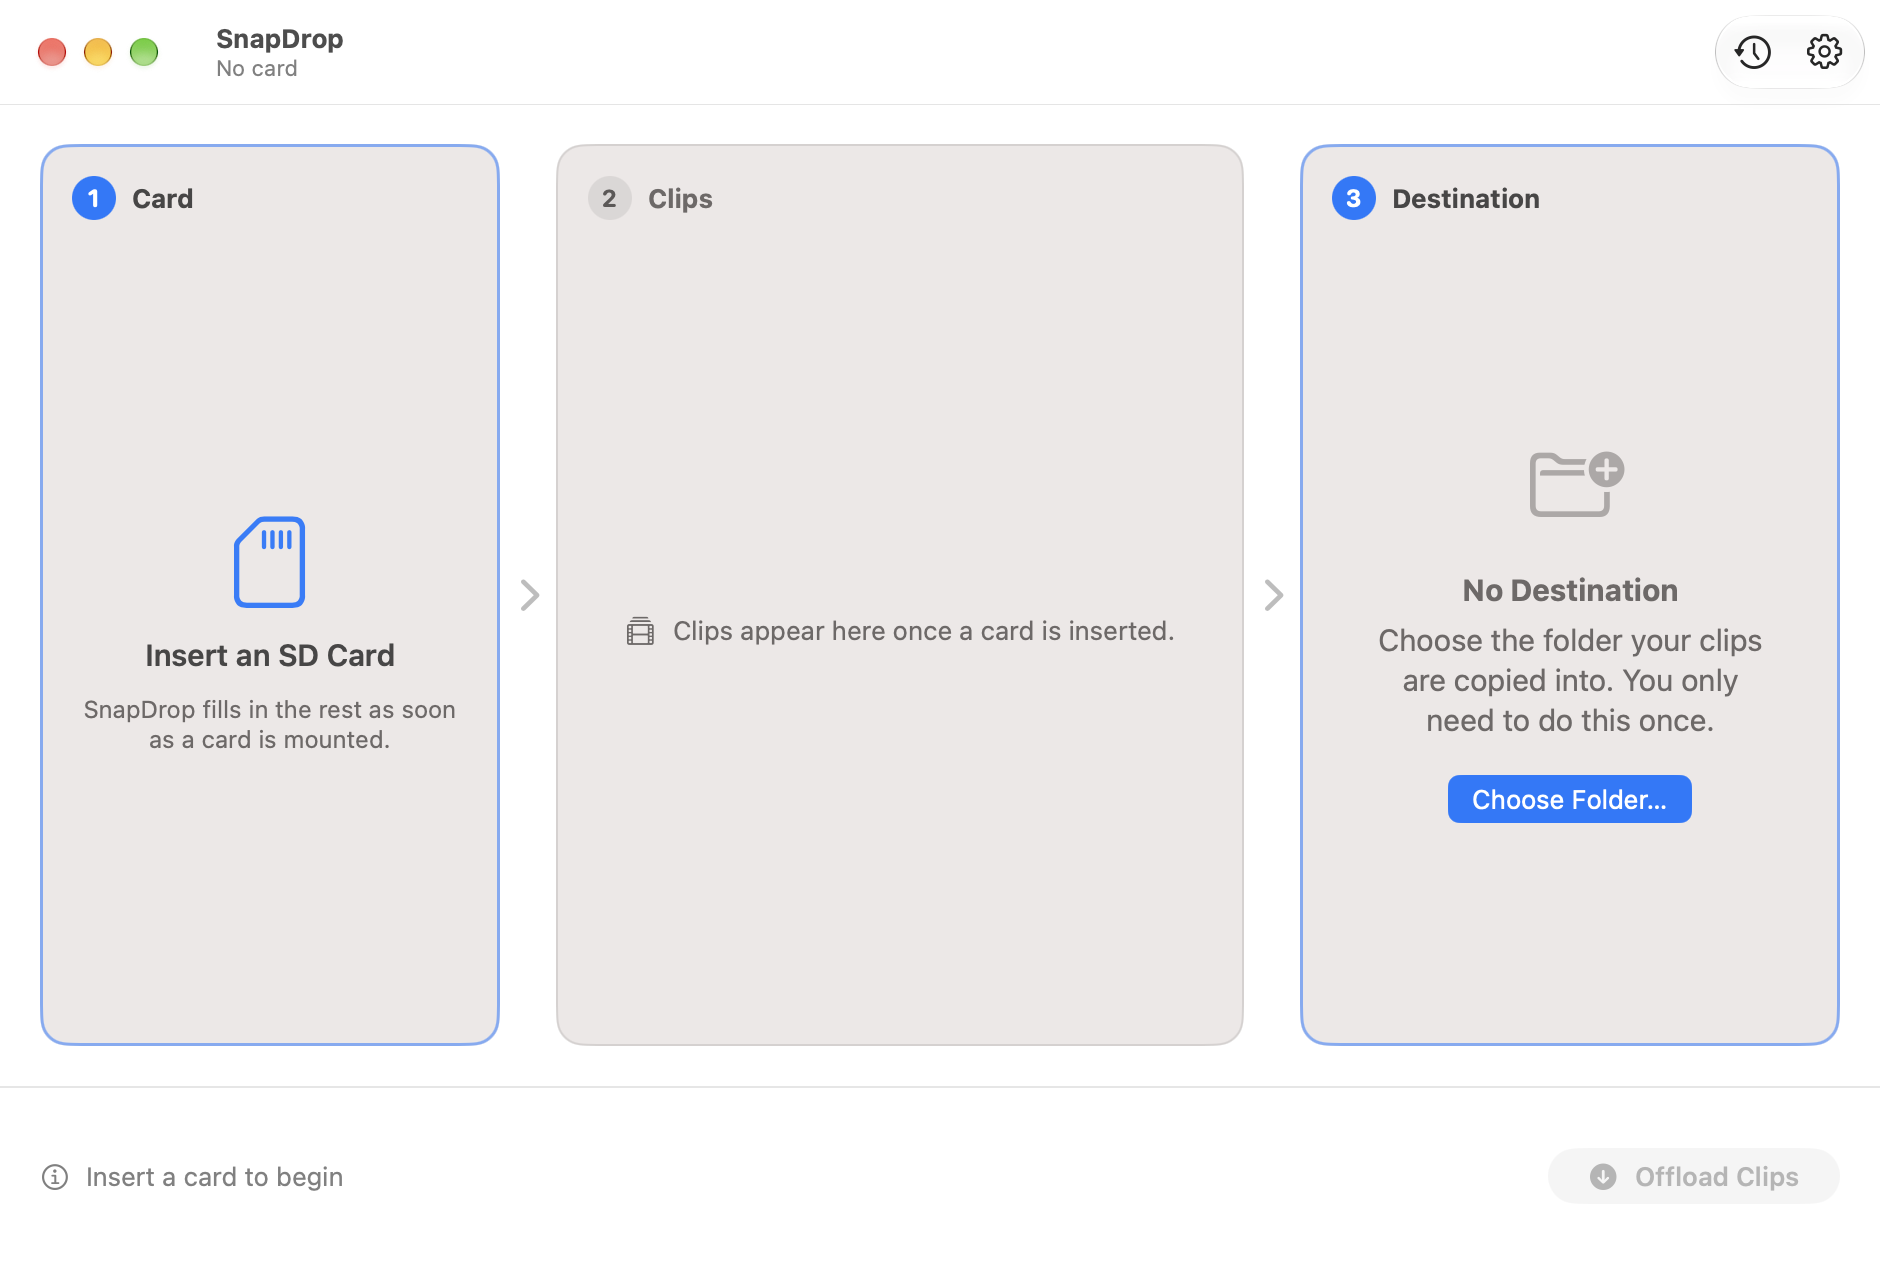
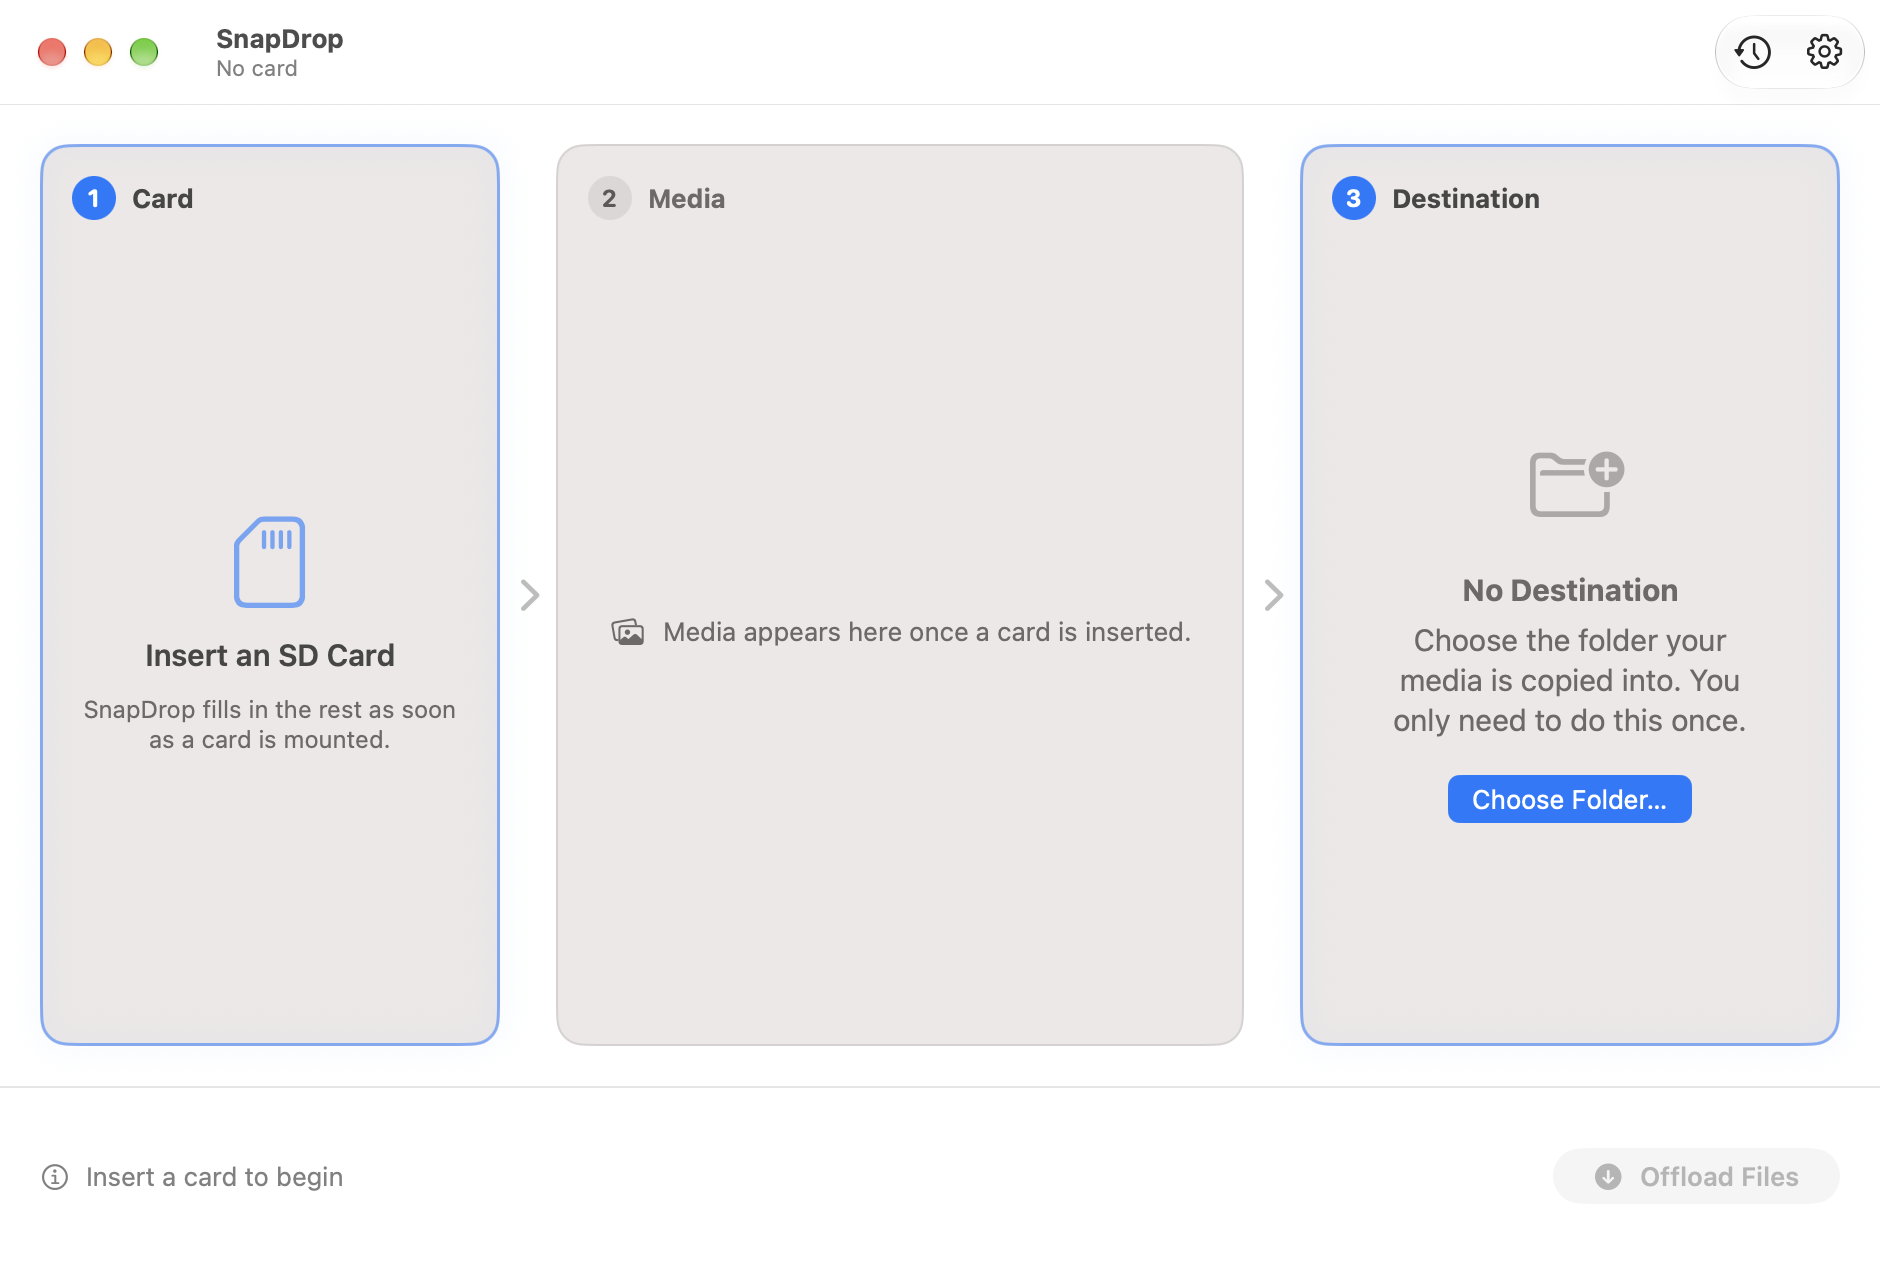
Update README and screenshots

diff --git a/README.md b/README.md
@@ -1,41 +1,43 @@
 # SnapDrop
 
-A small native macOS app (SwiftUI) that offloads video clips from camera SD cards —
-safely, verified, and neatly named.
+A small native macOS app (SwiftUI) that offloads camera SD cards — video, photos, audio
+and sidecar files — safely, verified, and named the way you want.
 
 ![SnapDrop ready to offload a card](Design/screenshots/ready-light.png)
 
 ## What it does
 
 1. **Notices when you insert a card.** Any removable drive mounted under `/Volumes`
-   that has video clips on it (cards already inserted at launch count too).
-2. **Finds your clips** in the usual camera folders — `DCIM` (all cameras),
-   `PRIVATE/M4ROOT/CLIP` (Sony), `CONTENTS/CLIPS` (Panasonic) — and searches the whole
-   card if none of those exist. File types: `.mp4`, `.mov`, `.mxf`, `.braw`.
-   Hidden files and macOS `._` junk files are ignored.
-3. **Asks for a shoot name.** "Beach Shoot" becomes `BeachShoot`. A live preview shows
-   exactly what every clip will be called before anything is copied.
-4. **Copies only new clips** into dated subfolders of your destination:
+   that has media on it (cards already inserted at launch count too).
+2. **Finds everything worth keeping** anywhere on the card: video, photos, audio and
+   other files such as Sony's `C0001M01.XML` metadata (see [File types](#file-types)).
+   System junk is never copied.
+3. **Names files from a template** you set in Settings → Naming, e.g.
+   `{project}/{date}/{camera}` + `{date}_{project}_{camera}_{seq}`. You fill in the
+   project, shoot and camera in the main window; a live preview shows exactly what every
+   file will be called before anything is copied, and the copy uses exactly those names.
+4. **Copies only new files**, with the default layout:
 
    ```
    Destination/
      2026-10-25/
        BeachShoot/
          2026-10-25_BeachShoot_0001.mp4
-         2026-10-25_BeachShoot_0002.mov
+         2026-10-25_BeachShoot_0001M01.xml    ← sidecar keeps its clip's name
+         2026-10-25_BeachShoot_0002.arw
    ```
 
-   - The date is the clip's creation date (or modification date if there's none).
+   - The date is the file's creation date (or modification date if there's none).
    - Numbers continue after the highest one already in that folder, so a second card
-     from the same shoot picks up at `_0003`. Nothing is ever overwritten.
+     from the same shoot picks up where the first left off. Nothing is ever overwritten.
    - Extensions are lowercased.
-5. **Verifies every copy** with SHA-256. Each clip is first copied to
+5. **Verifies every copy** with SHA-256. Each file is first copied to
    `<name>.snapdrop-partial`, the copy is re-read from disk and hashed, and only when it
    matches the source is it renamed to its final name. A mismatch deletes the partial
    file and is reported as a failure.
 6. **Remembers what it copied** in a ledger at
    `~/Library/Application Support/SnapDrop/ledger.json`, so inserting the same card
-   again only copies clips that are new. A clip is identified by the card's volume UUID
+   again only copies files that are new. A file is identified by the card's volume UUID
    (or name) + its path on the card + size + modification time.
 
 SnapDrop **never changes or deletes anything on the card.**
@@ -44,29 +46,87 @@ SnapDrop **never changes or deletes anything on the card.**
 
 The main window reads left to right, like a funnel:
 
-**① Card → ② Clips → ③ Destination**, with the offload bar along the bottom.
+**① Card → ② Media → ③ Destination**, with the offload bar along the bottom.
 
 - **Card** — the inserted cards. Pick one if more than one is mounted.
-- **Clips** — how many clips are new vs. already offloaded, the shoot name field, and a
-  live name preview (`C0007.MP4` → `2026-10-25_BeachShoot_0001.mp4`).
-- **Destination** — the folder, its free space, and the folder layout clips will land in.
-- **Offload bar** — the big **Offload N Clips** button. When it's disabled it tells you why
-  ("Enter a shoot name", "Not enough space…"). While copying it shows the current file,
-  *X of N*, bytes copied, time left and a *Verifying* state, plus **Cancel**. When it's
-  done: **Show in Finder**, **Eject Card** and **Done**.
+- **Media** — chips like *18 video · 9 photo · 3 audio · 19 other* and how many files
+  were already offloaded; the **Project**, **Shoot** and **Camera** fields (only the ones
+  your template uses are required); and the live name preview, with an
+  *All / Video / Photo / Audio / Other* filter. Sidecars are shown indented under their clip.
+- **Destination** — the folder, its free space, and the folder layout files will land in.
+- **Offload bar** — the big **Offload N Files** button. When it's disabled it tells you
+  why ("Enter a project name", "Choose a camera", "Not enough space…"). While copying it
+  shows the current file, *X of N*, bytes copied, time left and a *Verifying* state, plus
+  **Cancel**; the preview highlights the file being copied and ticks off each verified
+  one. When it's done: **Show in Finder**, **Eject Card** and **Done**, and a "Glass"
+  sound plays if everything copied and verified.
 
 When you insert a card SnapDrop fills in the funnel and brings its window to the front —
 no pop-up sheet. The clock button in the toolbar shows **Recent Offloads**.
-
-### Settings (⌘,)
-
-- **Destination folder**
-- **Eject card after offload** (off by default) — only ejects when every clip copied and
-  verified with no failures.
+Animations follow System Settings → Accessibility → Display → **Reduce motion**.
 
 | Ready | Copying | Finished (Dark Mode) |
 | --- | --- | --- |
 | ![](Design/screenshots/ready-light.png) | ![](Design/screenshots/running-light.png) | ![](Design/screenshots/finished-dark.png) |
+
+## Settings (⌘,)
+
+**General** — destination folder; which [file types](#file-types) to offload (all on by
+default); *Eject card after offload* (off by default, and only when every file copied and
+verified); *Play a sound when an offload finishes* (on by default).
+
+**Naming** — a folder template and a file template, presets, and a live example.
+Click a token chip to insert it where you were typing. Mistakes (an unclosed `{`, an
+unknown token, `{seq}` twice, a name starting with `.`) are explained right under the field
+and the Offload button stays off until they're fixed. **Reset to Default** brings back
+`{date}/{shoot}` + `{date}_{shoot}_{seq}`.
+
+| Token | Becomes |
+| --- | --- |
+| `{project}` | Project name from the main window (recent projects are one click away) |
+| `{shoot}` | Shoot name ("Beach Shoot" → `BeachShoot`) |
+| `{camera}` | The chosen camera's short code, or its name if it has no code |
+| `{date}` | Capture date, `2026-10-25` |
+| `{year}` `{month}` `{day}` | `2026`, `10`, `25` |
+| `{time}` | Capture time, `143005` |
+| `{type}` | `Video`, `Photo`, `Audio` or `Other` |
+| `{card}` | The card's volume name |
+| `{original}` | The original file name without extension, `C0001` |
+| `{seq}` | Sequence number, `0001`; `{seq:3}` gives `001` |
+| `{ext}` | File extension, `mp4` (the real extension is always added at the end) |
+
+Use `/` in the folder template for subfolders. Presets: *Date / Shoot* (default),
+*Project / Date / Camera*, *Project / Type / Date*, *Year / Month / Day*,
+*Date / Shoot, Original Names*, and *Flat*. Without `{seq}` or `{original}`, files that
+would end up with the same name get `_2`, `_3`… instead of overwriting.
+
+**Cameras** — your list of cameras, each with a name ("Sony FX3") and an optional short
+code ("A") used by `{camera}`. Add, rename, reorder (drag) and delete. In the main window
+pick one from the **Camera** menu; SnapDrop remembers which camera you used with each card
+and picks it again next time. *Edit Cameras…* in that menu jumps straight here.
+
+| Naming | Cameras |
+| --- | --- |
+| ![](Design/screenshots/settings-naming.png) | ![](Design/screenshots/settings-cameras.png) |
+
+## File types
+
+The type comes from the file extension (upper or lower case).
+
+| Type | Extensions |
+| --- | --- |
+| Video | `mp4 mov mxf braw r3d crm mts m2ts avi mkv insv lrv 360` |
+| Photo | `jpg jpeg heic heif png tif tiff dng arw cr2 cr3 nef raf orf rw2 srw pef gpr insp` |
+| Audio | `wav mp3 aac m4a bwf` |
+| Other | everything else (`xml`, `lrf`, `thm`, …) |
+
+- **Sidecars** keep their clip's new name: an audio or other file next to a video or photo
+  with the same name (`GX010001.WAV` → `…_0001.wav`), or Sony's `C0001M01.XML` style
+  (`…_0001M01.xml`). They don't use up a sequence number.
+- **Never copied:** anything starting with `.` (`.DS_Store`, `._C0001.MP4`,
+  `.Spotlight-V100`, `.fseventsd`, `.Trashes`, `.TemporaryItems`…), `System Volume
+  Information`, `$RECYCLE.BIN`, `Thumbs.db`, `desktop.ini`. Empty (zero-byte) files that
+  aren't hidden are copied.
 
 ## Run it
 
@@ -74,7 +134,8 @@ no pop-up sheet. The clock button in the toolbar shows **Recent Offloads**.
 2. Press **⌘R**.
 3. First run: click **Choose Folder…** in the *Destination* panel (or in Settings, ⌘,) and
    pick the folder for your footage. It's remembered from then on.
-4. Insert a card, type a shoot name, and click **Offload N Clips**.
+4. Insert a card, fill in the shoot name (and project/camera if your template uses them),
+   and click **Offload N Files**.
 
 The project builds without an Apple developer account ("Sign to Run Locally" /
 ad-hoc signing). The app is not sandboxed so it can read `/Volumes` and write to any
@@ -114,6 +175,8 @@ open -n build/DerivedData/Build/Products/Debug/SnapDrop.app --args \
 ```
 
 States: `empty`, `ready`, `running`, `finished`. Appearance: `light` or `dark`.
+Add `-SnapDropDemoSettingsTab general|naming|cameras` to open Settings on that tab.
+The sample card has clips with Sony XML sidecars, RAW photos, WAVs and a few cameras.
 Every view also has `#Preview`s you can open in Xcode's canvas.
 
 ## Code tour
@@ -121,30 +184,37 @@ Every view also has `#Preview`s you can open in Xcode's canvas.
 | File | What's in it |
 | --- | --- |
 | `SnapDropApp.swift` | App entry point: main window and Settings scene |
-| `AppModel.swift` | Ties settings, card watcher, ledger and the current offload together; eject |
-| `ContentView.swift` | Main window: the Card → Clips → Destination funnel and toolbar |
+| `AppModel.swift` | Ties settings, cameras, card watcher, ledger and the current offload together; eject, sound |
+| `ContentView.swift` | Main window: the Card → Media → Destination funnel and toolbar |
 | `FunnelComponents.swift` | Shared pieces: stage panel, step badge, arrows, count pills |
+| `Motion.swift` | Animated pieces: arrow stream, shimmering progress bar, completion burst, row reveal |
 | `CardStageView.swift` | ① Card panel |
-| `ClipsStageView.swift` | ② Clips panel: counts, shoot name, live name preview |
+| `ClipsStageView.swift` | ② Media panel: counts, project/shoot/camera, filterable name preview |
 | `DestinationStageView.swift` | ③ Destination panel: folder, free space, layout |
 | `OffloadBar.swift` | Bottom bar: Offload button, progress/ETA/Cancel, completion actions |
 | `RecentOffloadsView.swift` | Recent Offloads popover |
-| `SettingsView.swift` | Settings window (⌘,) |
-| `FlowLogic.swift` | Pure logic for the UI: name preview, "why is Offload disabled", ETA and byte text |
+| `SettingsView.swift` | Settings window (⌘,): tabs and the General tab |
+| `NamingSettingsView.swift` | Naming tab: template editors, presets, token chips, example |
+| `CamerasSettingsView.swift` | Cameras tab |
+| `NamingTemplate.swift` | Template tokens, parsing/validation, presets, rendering |
+| `OffloadPlanner.swift` | Turns files + templates into final paths; sequence numbers; sidecar matching |
+| `MediaCategory.swift` | Video / Photo / Audio / Other by extension |
+| `CameraStore.swift` | The camera list and per-card camera memory (`cameras.json`) |
+| `FlowLogic.swift` | Pure logic for the UI: "why is Offload disabled", ETA and byte text, success feedback |
 | `DemoData.swift` | Sample data for previews and demo mode (Debug only) |
 | `OffloadSession.swift` | State for one card's offload; runs the copy in the background |
 | `VolumeWatcher.swift` | Detects cards being inserted/removed |
-| `ClipScanner.swift` | Finds clips on a card |
-| `Renamer.swift` | Shoot-name cleanup, file/folder naming, sequence numbers |
+| `ClipScanner.swift` | Finds media on a card, skipping system junk |
+| `Renamer.swift` | Shoot-name cleanup and date formatting |
 | `Copier.swift` | Copy + SHA-256 verify of one file, and the whole-card offload loop |
 | `Ledger.swift` | The JSON record of everything offloaded |
-| `Settings.swift` | Preferences: destination folder, eject after offload |
+| `Settings.swift` | Preferences: destination, templates, file types, eject, sound, recent projects |
 | `Assets.xcassets/AppIcon` | App icon sizes: the hand-made "Comet A" set from `Design/comet-a/` |
 | `Design/comet-a/` | "Comet A" icon set by Yuwie, one PNG per icon slot |
 | `Design/icon-1024.png` | Master app icon (Comet A, 1024×1024) |
 | `Design/icon-legacy-blue.png`, `.svg` | The previous blue icon, kept for reference |
 | `Design/screenshots/` | Screenshots of the app (taken from demo mode) |
-| `SnapDropTests/` | Unit tests for naming, filtering, ledger, copy/verify, name preview and ETA/byte text |
+| `SnapDropTests/` | Unit tests: templates, planner, sidecars, file types, junk skipping, cameras, ledger, copy/verify, end-to-end fake cards |
 
 The project uses Xcode's folder-synced groups: any `.swift` file you add to the
 `SnapDrop/` folder is automatically part of the app. No third-party dependencies.
